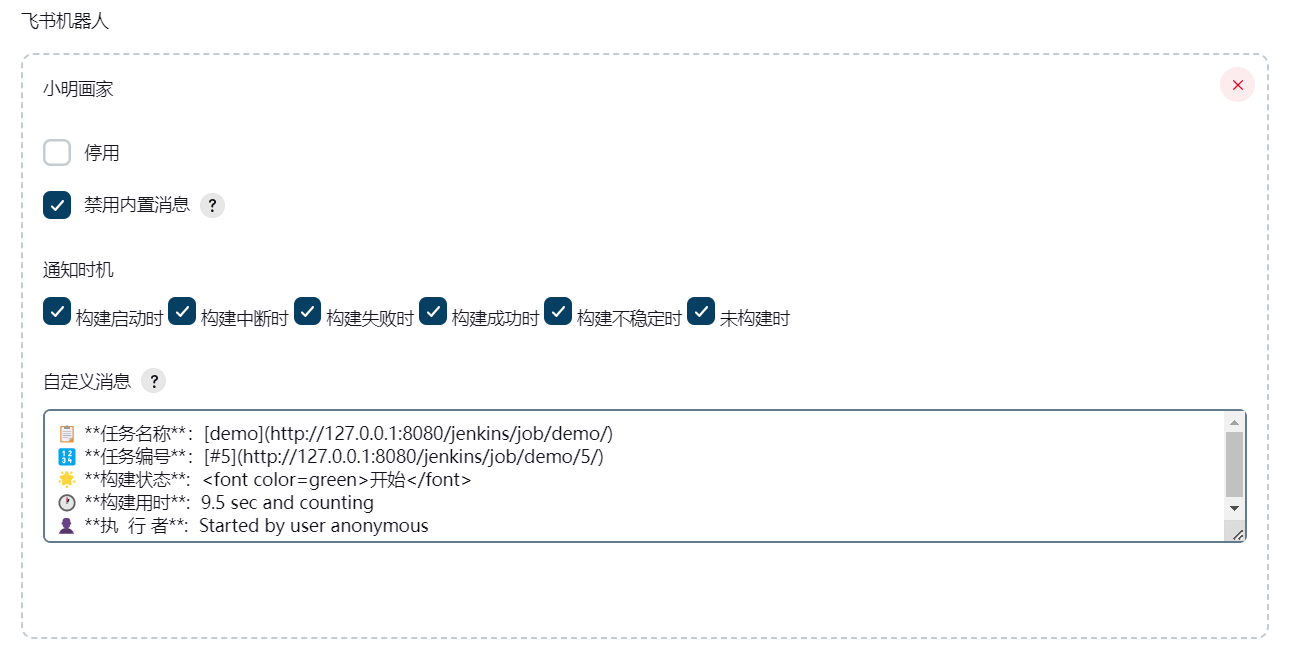
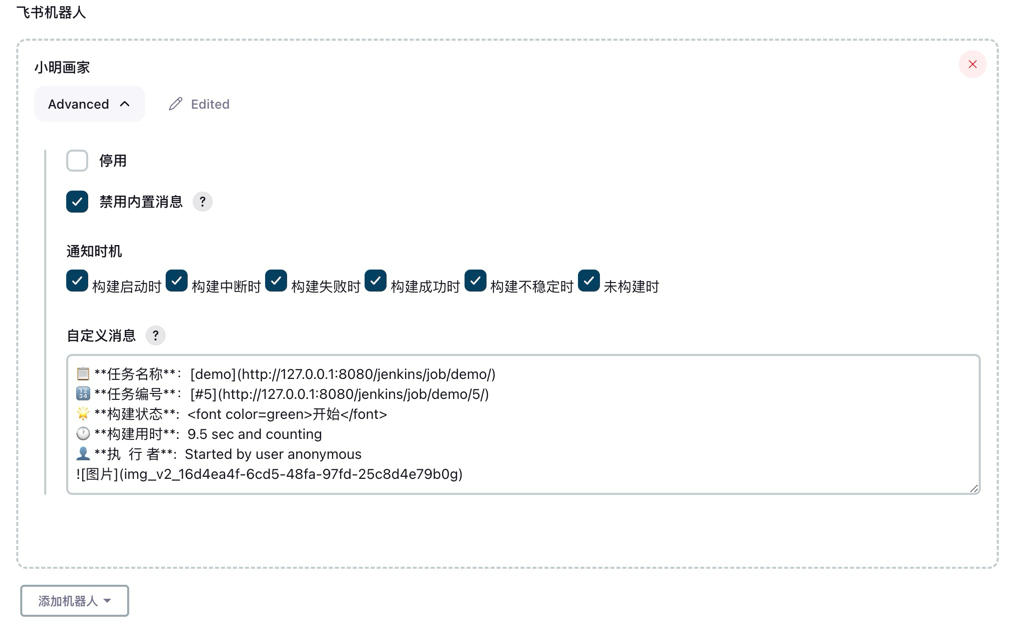
📝 Add or update documentation.

diff --git a/docs/guide/CHANGELOG.md b/docs/guide/CHANGELOG.md
@@ -1,5 +1,16 @@
 # 更新日志
 
+## [1.2.1] 2023-12-13
+
+### ⭐ Features
+
+- ✨ 支持海外版Lark的消息通知
+- ♻ 重构 插件 代码
+
+### 🔨 Dependency
+
+- ⬆ **org.jenkins-ci.plugins**  4.67 to 4.75
+
 ## [1.2.0] 2023-11-23
 
 ### ⭐ Features

diff --git a/docs/guide/front/freestyle.md b/docs/guide/front/freestyle.md
@@ -13,4 +13,5 @@
 🌟 **构建状态**:  <font color=green>开始</font>
 🕐 **构建用时**:  9.5 sec and counting
 👤 **执  行 者**:  Started by user anonymous
+![图片](img_v2_16d4ea4f-6cd5-48fa-97fd-25c8d4e79b0g)
 ```
